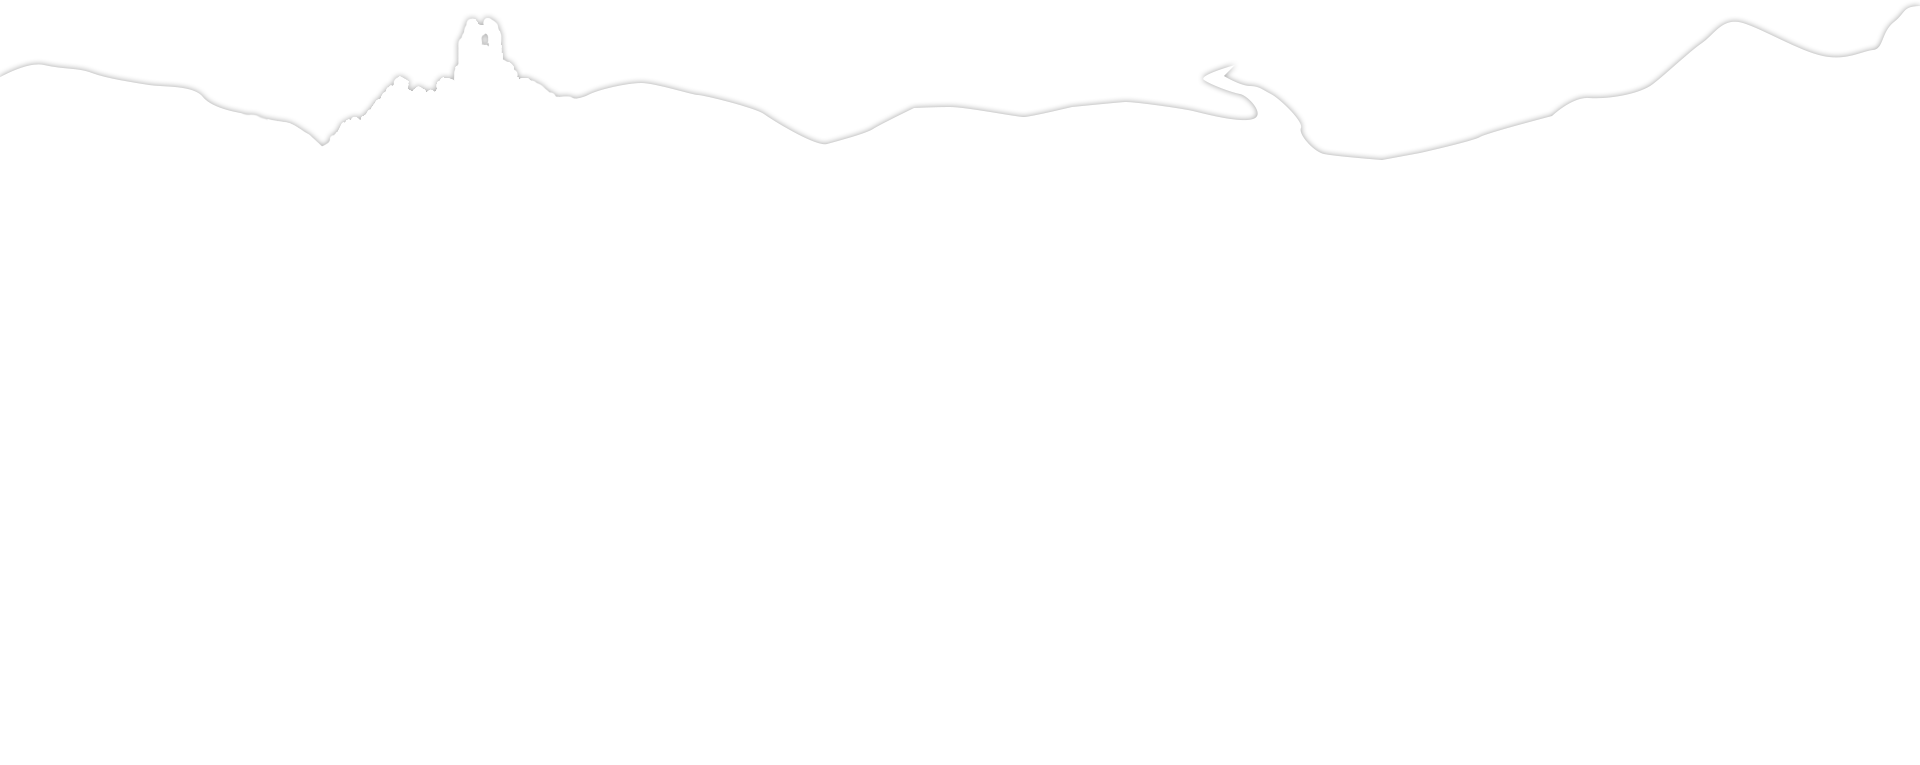
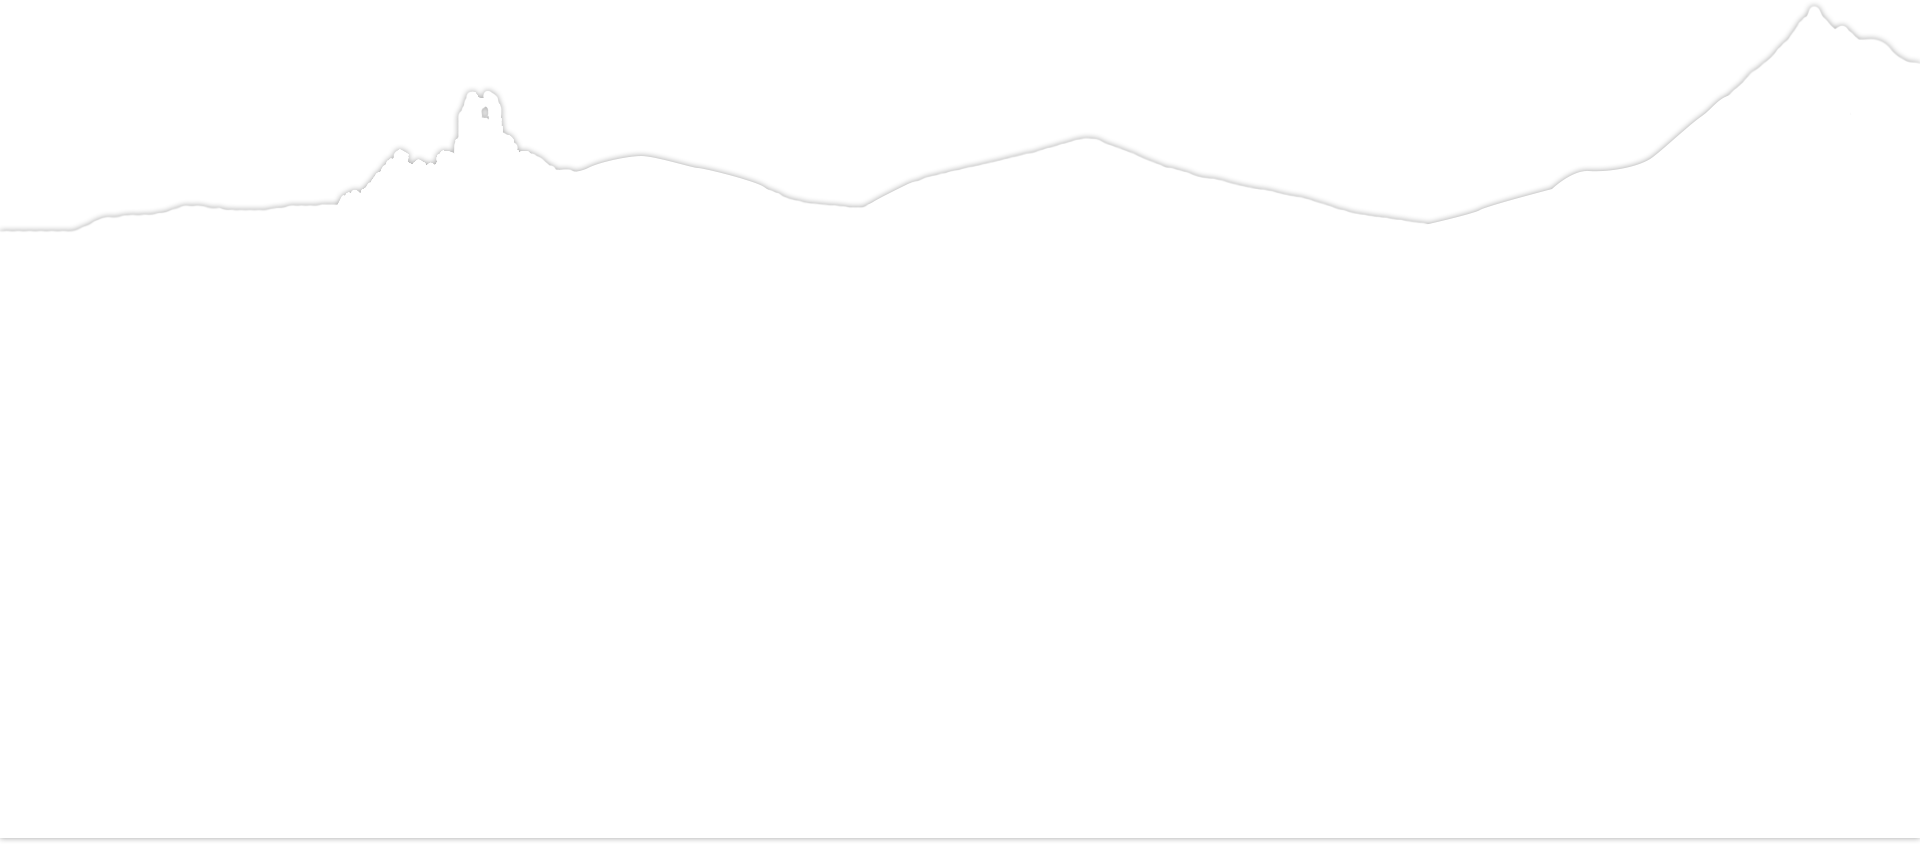
added trees

Changed region(s): [[0.0, 0.9922, 1.0, 1.0], [0.9062, 0.0301, 0.9375, 0.0601], [0.625, 0.0902, 0.6562, 0.1203]]

diff --git a/public/style/index.css b/public/style/index.css
@@ -51,7 +51,7 @@ html, body {
 }
 
 #menu {
-  z-index: 101;
+  z-index: 201;
   position: fixed;
 }
 
@@ -241,25 +241,11 @@ html, body {
   height: 177px;
 }
 
-.mountains1 {
-  background-image: url("../images/mountains_top1.png");
-  width: 1920px;
-  height: 994px;
-  z-index: 51;
-}
-
 .mountains2 {
   background-image: url("../images/mountains_top2.png");
   width: 1920px;
   height: 978px;
   z-index: 52;
-}
-
-.mountains3 {
-  background-image: url("../images/mountains_top3.png");
-  width: 1920px;
-  height: 879px;
-  z-index: 53;
 }
 
 .mountains4 {
@@ -276,13 +262,6 @@ html, body {
   z-index: 55;
 }
 
-.mountains6 {
-  background-image: url("../images/mountains_top6.png");
-  width: 1920px;
-  height: 549px;
-  z-index: 56;
-}
-
 .mountains7 {
   background-image: url("../images/mountains_top7.png");
   width: 1920px;
@@ -290,10 +269,52 @@ html, body {
   z-index: 57;
 }
 
-.balloon {
-  background-image: url("../images/balloon.png");
-  width: 123px;
-  height: 234px;
+.cloudsTop {
+  background-image: url("../images/clouds_top.png");
+  width: 1060px;
+  height: 164px;
+}
+
+.tree1 {
+  background-image: url("../images/tree1.png");
+  width: 505px;
+  height: 946px;
+  z-index: 158;
+}
+
+.tree2 {
+  background-image: url("../images/tree2.png");
+  width: 515px;
+  height: 956px;
+  z-index: 159;
+}
+
+.tree3 {
+  background-image: url("../images/tree3.png");
+  width: 556px;
+  height: 773px;
+  z-index: 160;
+}
+
+.tree4 {
+  background-image: url("../images/tree4.png");
+  width: 463px;
+  height: 909px;
+  z-index: 161;
+}
+
+.tree5 {
+  background-image: url("../images/tree5.png");
+  width: 415px;
+  height: 927px;
+  z-index: 162;
+}
+
+.tree6 {
+  background-image: url("../images/tree6.png");
+  width: 496px;
+  height: 753px;
+  z-index: 163;
 }
 
 #impress {
